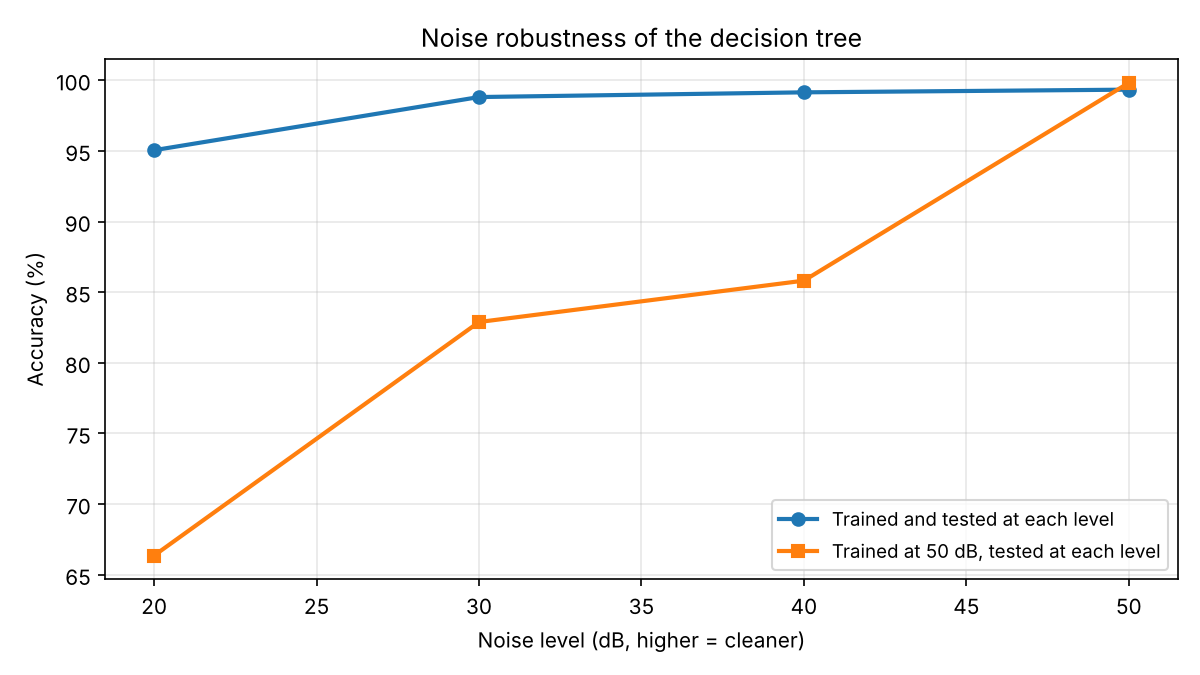
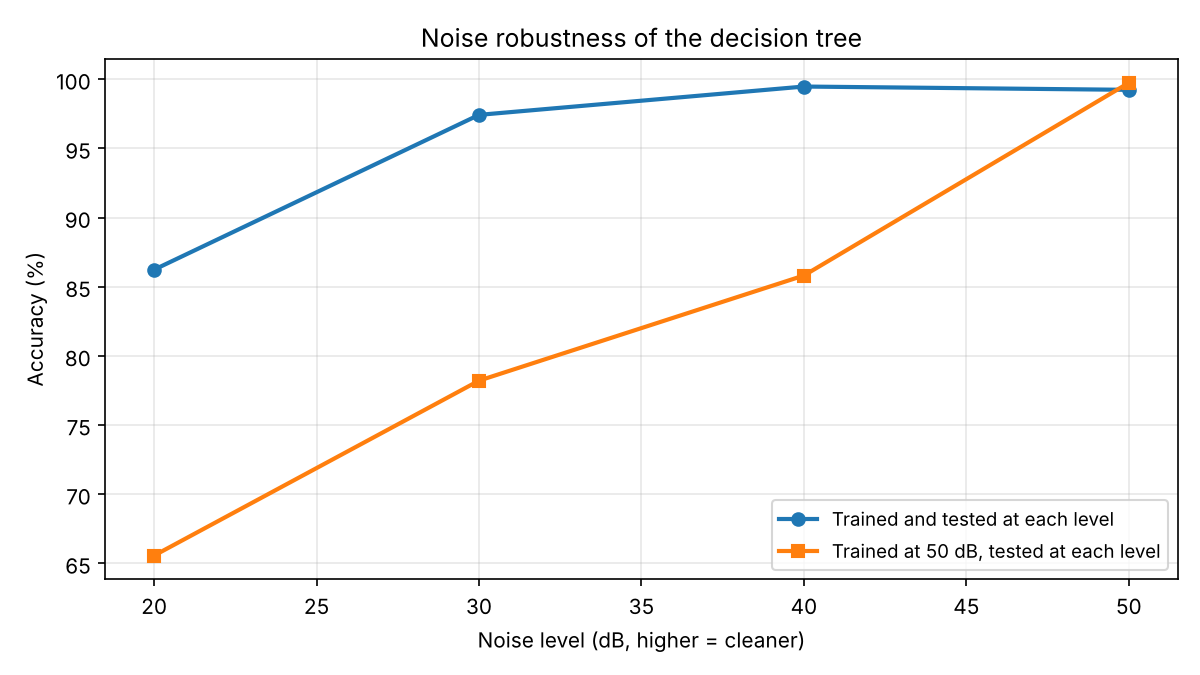
Webpage: wavelet-focused, 6 electrical features, regenerated numbers; remove FFT/STFT content
Claude-Session: https://claude.ai/code/session_01XgHpHjcXs9ZsT4pXBJ5wU2

diff --git a/pq-classification/index.html b/pq-classification/index.html
@@ -55,39 +55,41 @@ a { color: var(--accent); }
   <div class="kpis">
     <div class="kpi"><div class="v">100%</div><div class="k">Wavelet data, 7 classes (holdout)</div></div>
     <div class="kpi"><div class="v">98.80%</div><div class="k">Wavelet data, 5-fold CV</div></div>
-    <div class="kpi"><div class="v">97.5%</div><div class="k">Voltage data at 20 dB noise (random forest)</div></div>
-    <div class="kpi"><div class="v">99.9%</div><div class="k">Voltage data at 40 dB noise (random forest)</div></div>
+    <div class="kpi"><div class="v">97.3%</div><div class="k">Wavelet + voltage features at 20 dB noise (random forest)</div></div>
+    <div class="kpi"><div class="v">99.9%</div><div class="k">Wavelet + voltage features at 40 dB noise (random forest)</div></div>
   </div>
 </section>
 
 <section>
   <h2>What we did</h2>
   <ul>
-    <li><b>Got the data:</b> two public Mendeley datasets (wavelet and FFT features) and one public GitHub dataset of raw voltage waveforms.</li>
+    <li><b>Got the data:</b> a public Mendeley dataset of wavelet features, and a public GitHub dataset of raw voltage waveforms.</li>
     <li><b>Tested fairly:</b> 70% of the data for training, 30% kept aside to test. We also used 5-fold cross-validation, and the same split for every model.</li>
     <li><b>Compared models:</b> a decision tree (easy to read), SVM, random forest and a small neural network (CNN).</li>
+    <li><b>Focused on wavelets:</b> the frequency-domain (FFT and STFT) analysis has been removed, so every result here uses wavelet features or time-domain voltage features.</li>
   </ul>
 </section>
 
 <section>
   <h2>Main results</h2>
+  <h3>Wavelet features (Mendeley dataset)</h3>
   <div class="table-wrap">
   <table>
     <tr><th>Data</th><th class="n">Holdout</th><th class="n">5-fold CV</th></tr>
     <tr><td>Wavelet features, 7 classes</td><td class="n">100.00%</td><td class="n">98.80%</td></tr>
-    <tr><td>FFT (STFT) codes 0 to 4</td><td class="n">98.67%</td><td class="n">99.80%</td></tr>
+    <tr><td>Wavelet features, 13 labels</td><td class="n">97.78%</td><td class="n">98.27%</td></tr>
   </table>
   </div>
-  <h3>Voltage waveforms: which model works best</h3>
+  <h3>Voltage waveforms (GitHub dataset): which model works best</h3>
   <div class="table-wrap">
   <table>
     <tr><th>Noise</th><th class="n">Decision tree</th><th class="n">Random forest</th><th class="n">Small CNN</th></tr>
-    <tr><td>20 dB (very noisy)</td><td class="n">95.05%</td><td class="n">96.38%</td><td class="n">97.95%</td></tr>
-    <tr><td>50 dB (clean)</td><td class="n">99.33%</td><td class="n">99.52%</td><td class="n">99.76%</td></tr>
+    <tr><td>20 dB (very noisy)</td><td class="n">86.24%</td><td class="n">89.57%</td><td class="n">97.95%</td></tr>
+    <tr><td>50 dB (clean)</td><td class="n">99.24%</td><td class="n">99.52%</td><td class="n">99.76%</td></tr>
   </table>
   </div>
-  <p class="note">The CNN does best in noise because it reads the full voltage wave, while the other models only see 11 summary numbers. Differences of about 0.5 points are within the normal spread between runs.</p>
-  <p class="note">Training on signals from all noise levels together keeps the decision tree accurate at every level. Training on clean signals only drops it to about 73% at 20 dB.</p>
+  <p class="note">These use six electrical features per signal (RMS, peak and sudden jump). The CNN does best in noise because it reads the full voltage wave, while the other models only see the six summary numbers. Adding the wavelet features to the electrical ones raises the random forest to 97.33% at 20 dB and 99.52% at 30 dB.</p>
+  <p class="note">Training on clean (50 dB) signals only drops the decision tree to about 66% at 20 dB. Training on all noise levels together brings the CNN to 98.5% at 20 dB (average of five runs).</p>
 </section>
 
 <section>
@@ -99,7 +101,7 @@ a { color: var(--accent); }
     </figure>
     <figure style="margin:0">
       <img class="fig" src="figures/4_noise_robustness.png" alt="Accuracy against noise level for two training choices">
-      <figcaption class="note">Accuracy against noise level. Training at each level stays above 95%.</figcaption>
+      <figcaption class="note">Decision tree accuracy against noise level. Trained and tested at each level it falls to 86% at 20 dB; trained at 50 dB only, it falls to 66%.</figcaption>
     </figure>
   </div>
   <p class="note" style="margin-top:12px"><b>See the MATLAB graphs:</b> <a href="https://matlab.mathworks.com/open/github/v1?repo=SumaAcharya/MinorProject&amp;file=show_github_pqd.m" target="_blank" rel="noopener">Open show_github_pqd in MATLAB Online</a>, then type <code>show_github_pqd</code> in the Command Window.</p>
@@ -122,7 +124,7 @@ a { color: var(--accent); }
 <section>
   <h2>Limits</h2>
   <div class="warn">
-    <p style="margin:0">The data is simulated, so these results show how well the features separate the classes, not how a real meter would perform. The voltage data has no current measurements. The features in the voltage analysis are our own, so those numbers can't be compared directly with the Mendeley results.</p>
+    <p style="margin:0">The data is simulated, so these results show how well the features separate the classes, not how a real meter would perform. The voltage data has no current measurements. The voltage features are our own, so those numbers can't be compared directly with the Mendeley results.</p>
   </div>
 </section>
 
@@ -131,14 +133,14 @@ a { color: var(--accent); }
   <p class="note">The MATLAB scripts and Python code are in the GitHub repository. The first run of the voltage analysis downloads about 260 MB.</p>
   <pre>clear functions
 run_mendeley_project      % wavelet results
-run_stft_benchmark        % FFT results
 run_mendeley_report       % customer report
-show_github_pqd          % voltage waveforms and noise test</pre>
+show_github_pqd           % voltage waveforms and noise test
+show_ml_comparison        % model comparison charts</pre>
   <p class="note" style="margin-top:10px">Code and data notes: <a href="https://github.com/SumaAcharya/MinorProject">github.com/SumaAcharya/MinorProject</a></p>
 </section>
 
 <footer>
-  Datasets: Veeramsetty et al. (2026), PQ Disturbances Dataset V4, Mendeley Data, DOI 10.17632/nkdpg8mn4f.4 (CC BY 4.0). Veeramsetty, Madgula and Durgam (2026), PQ Issues Using STFT V2, Mendeley Data, DOI 10.17632/w36rk7vh93.2 (CC BY 4.0). Shao, Henriques, Morais and Tedeschi, PQD-1D-model, GitHub (HanShaoll/PQD-1D-model) and IEEE DataPort (power quality disturbance waveform-1D data and model).
+  Dataset: Veeramsetty et al. (2026), PQ Disturbances Dataset V4, Mendeley Data, DOI 10.17632/nkdpg8mn4f.4 (CC BY 4.0). Shao, Henriques, Morais and Tedeschi, PQD-1D-model, GitHub (HanShaoll/PQD-1D-model) and IEEE DataPort (power quality disturbance waveform-1D data and model).
 </footer>
 
 </main>
